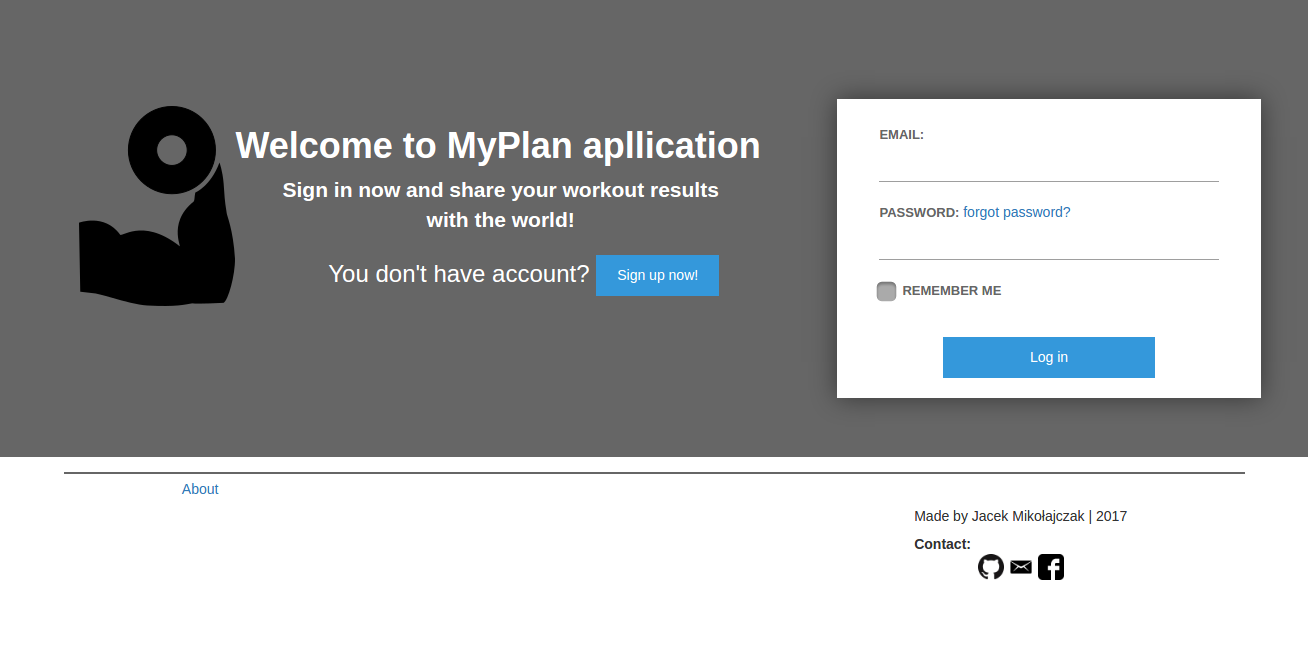
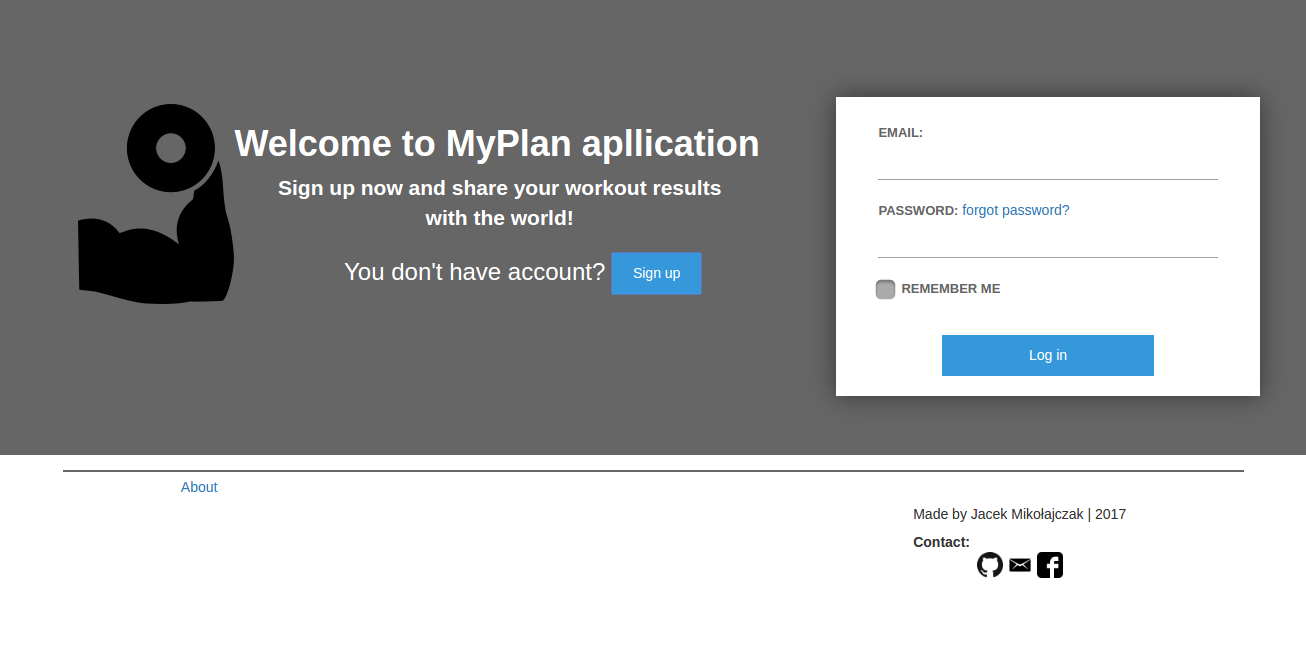
Add signup form in modal

diff --git a/app/assets/stylesheets/custom.scss b/app/assets/stylesheets/custom.scss
@@ -78,6 +78,12 @@ body {
 
 /* login-signup */
 
+#errors_div {
+  width: 35%;
+  margin: 0 25%;
+  color: red;
+}
+
 .login-form {
   margin: 15% 10% 5% 5%;
   padding-top: 3%;
@@ -163,6 +169,11 @@ footer {
 
 /* forms */
 
+input[value="Sign up"] {
+  margin-bottom: 0;
+  margin-top: 0;
+}
+
 input[type=checkbox] {
   display: none;
 }
@@ -235,7 +246,7 @@ input:-webkit-autofill {
 
 /* buttons */
 
-.btn {
+.btn, .btn:focus {
   background: #3498db;
   border-radius: 0px;
   color: #ffffff;
@@ -514,7 +525,7 @@ ul.microposts {
 
 /* modals */
 
-.modal-content {
+#modal-window .modal-content {
   width: 50%;
   margin: 10% 25%;
 }

diff --git a/app/assets/javascripts/application.js b/app/assets/javascripts/application.js
@@ -14,4 +14,3 @@
 //= require jquery_ujs
 //= require bootstrap
 //= require turbolinks
-//= require home

diff --git a/app/controllers/users_controller.rb b/app/controllers/users_controller.rb
@@ -16,7 +16,6 @@ class UsersController < ApplicationController
   # GET /users/new | new_user_path
   # Create nil user to provide @user variable for form_for
   def new
-    @user = User.new
   end
   
   # POST /users | users_path
@@ -29,7 +28,9 @@ class UsersController < ApplicationController
       @user.send_activation_email
       redirect_to root_url
     else
-      render "new"
+      respond_to do |format|
+        format.js
+      end
     end
   end
 

diff --git a/config/routes.rb b/config/routes.rb
@@ -2,8 +2,6 @@ Rails.application.routes.draw do
   
   root   'static_pages#home'
   get    '/about',   to: 'static_pages#about'
-  get    '/signup',  to: 'users#new'
-  post   '/signup',  to: 'users#create'
   get    '/reset',   to: 'password_resets#new'
   post   '/reset',   to: 'password_resets#create'
   delete '/logout',  to: 'sessions#destroy'

diff --git a/app/controllers/static_pages_controller.rb b/app/controllers/static_pages_controller.rb
@@ -6,6 +6,8 @@ class StaticPagesController < ApplicationController
       @micropost = current_user.microposts.build 
       @posts = current_user.posts
       @user = current_user
+    else
+      @user = User.new
     end
   end
 
